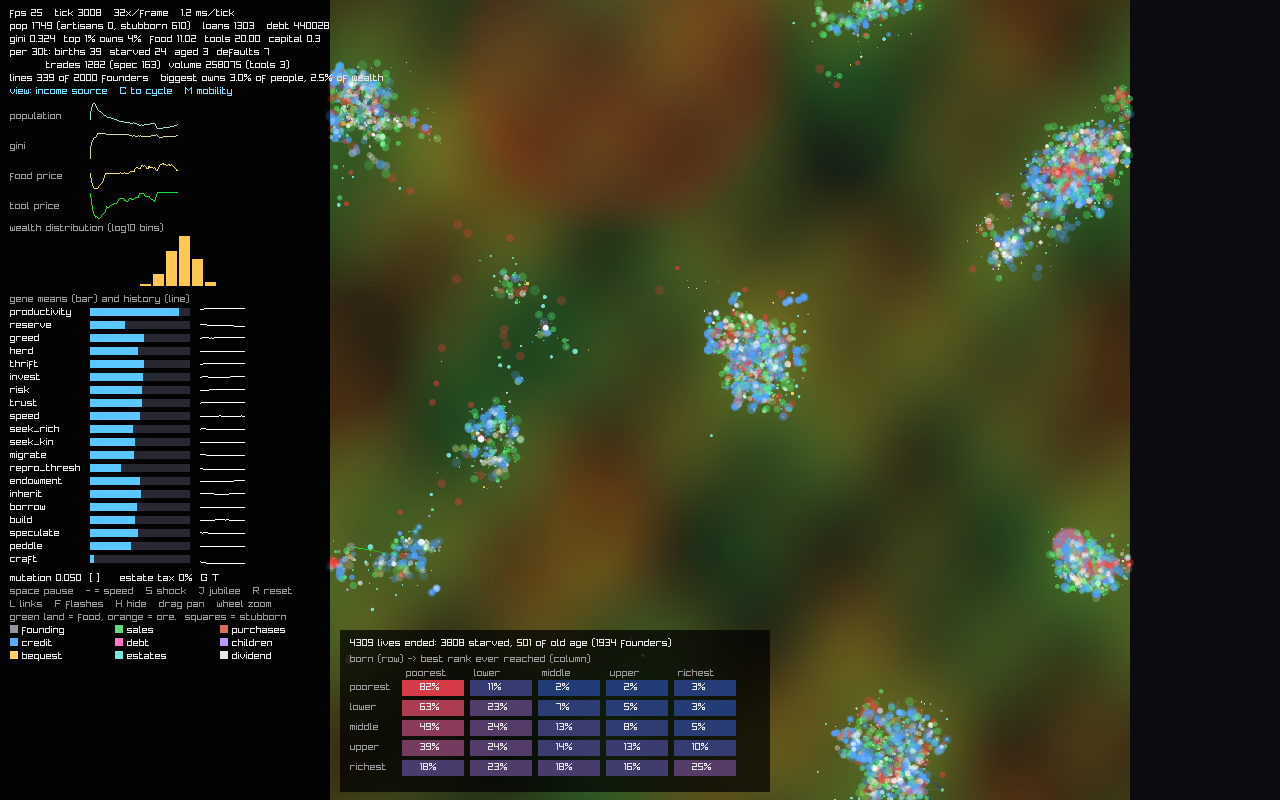
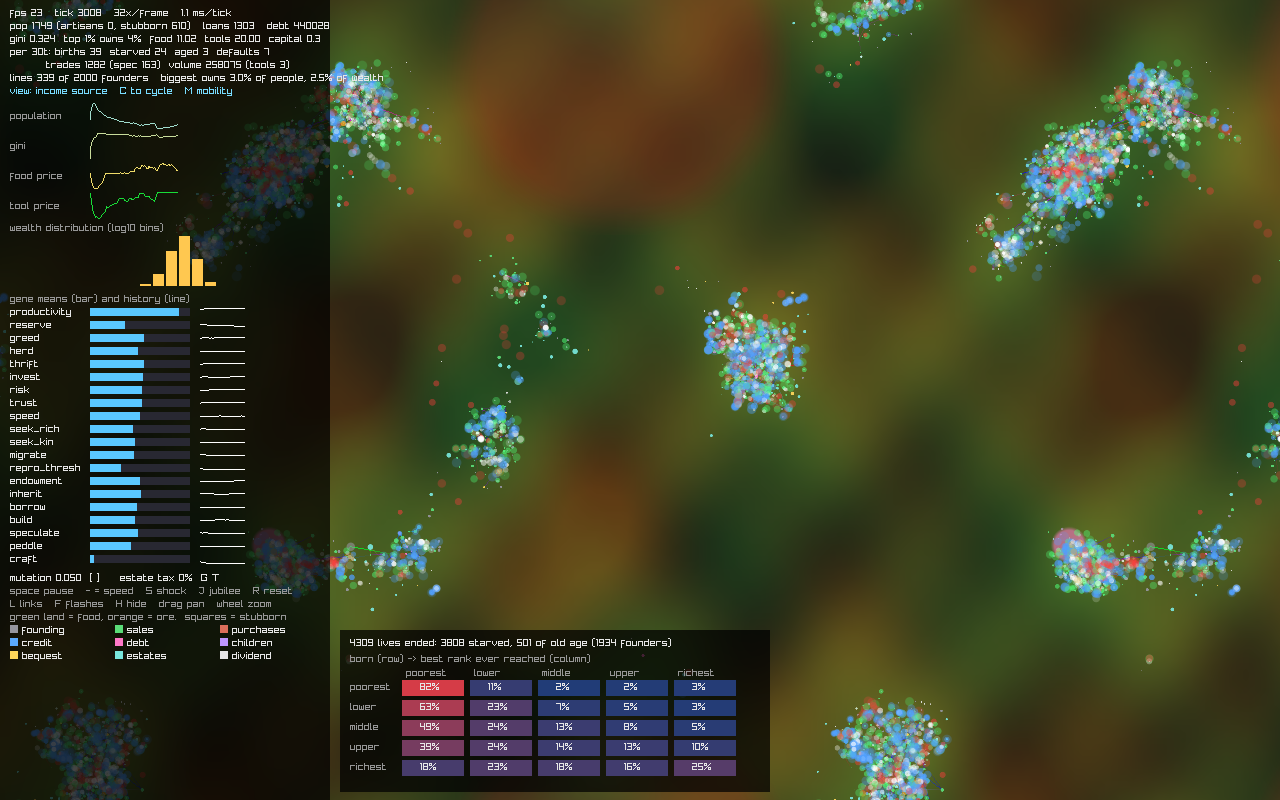
Stop the renderer implying edges the world does not have
The world is a torus and always has been, but the view drew one square of it
with black around the outside, so it read as a bounded map with towns stuck to
the walls. A town straddling the seam appeared as two unrelated halves.

Draw every copy of the world the camera can see instead. The fertility field
is built from sin(cx * 2pi/GRID), so it is periodic and tiles seamlessly; the
tile count is derived from the visible rect, which means a large world spanning
the screen in one copy pays nothing, and sub-pixel culling keeps the zoomed-out
case cheap.

Loan links were guarded by abs(a.x - b.x) < W/2, which silently dropped every
link across the seam -- 3% of them at tick 1500 -- and was exactly what made a
seam town look disconnected. They now draw to the nearest image of the
borrower, which is both visible and geometrically the right line.

Flash TTLs move out of the per-tile loop; they were decremented once per draw
and would otherwise decay N times faster. Clicks fold back onto the world.

Measured while chasing this, and worth recording: movement costs 1% of the food
bill, mean speed is 0.4 world-units/tick so crossing half the map takes longer
than a lifetime, 92% of cells are empty and half of prime farmland is
unoccupied. Land is not scarce and moving is not expensive; range is the
binding constraint.

diff --git a/README.md b/README.md
@@ -36,6 +36,10 @@ and the simulation reproduces a known fingerprint from a fixed seed. If it start
 ore (tools). They mostly do not overlap, which is the central tension of the whole model: the people
 who can make tools do not live where the food is.
 
+**The world wraps** — it is a torus, with no edge and no corner, and the fertility field is periodic
+so it tiles seamlessly. The view draws every copy of the world the camera can see, so panning never
+runs out of map and a town sitting on the seam is drawn as one town rather than two halves.
+
 **Each dot is one person.** Its colour is a fixed projection of its 20-gene genome onto a hue, so
 similar colours mean similar strategies and a spreading colour is a strategy winning. Its radius is
 net worth relative to the median (money + loans out − debt + goods and capital at market prices),
